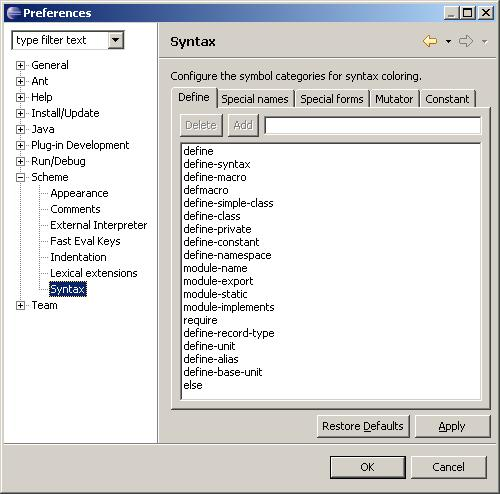
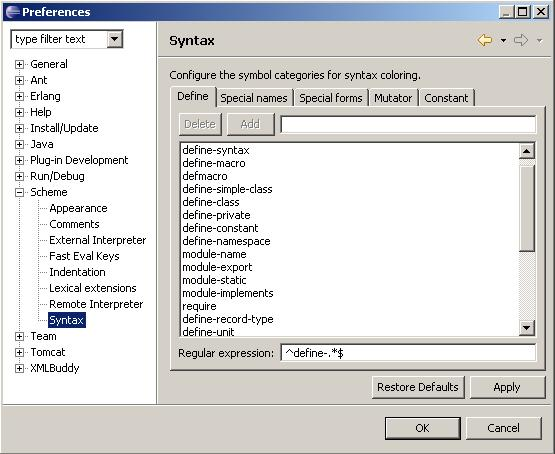
updated for version 1.2.0

Changed region(s): [[0.0, 0.0, 1.0, 1.0]]

diff --git a/html/overview.html b/html/overview.html
@@ -66,48 +66,14 @@
 <h2>Recent Changes</h2>
 
 <ul>
-    <li><b>Version 1.0.0</b>
+    <li><b>Version 1.2.0</b>
     	<ul>
-    		<li> The evaluation can be interrupted if it is supported by the interpreter
-				 (see the documentation for more details)
-		    <li> Added an <i>interpreters</i> extension point, and a menu item to 
-	            select the current interpreter
-		    <li> Added an interpreter: Embedded Kawa. It is the Kawa interpreter
-				 running inside the plug-in context/classpath. It comes with a 
-				 stack trace viewer.
-			<li> Added a <i>Kawa scratchpad</i> view (see the documentation for more
-				 details and the examples subdirectory)
-			<li> Structural editing commands (configurable and highly experimental/unstable)
-			<li> new actions (add-require, expand-namespace expand-typename)
-			<li> <code>define-namespace</code> clauses are processed for content assist
-			<li> Bug fixes.
-    	</ul>
-	<li><b>Version 0.3.0</b>
-		<ul>
-			<li>Added a Scheme perspective, with menus, toolbar actions
-			<li>Added integrated Scheme interpreter support
-			<li>>Added fast eval keys
-			<li>Bug fixes (parenthesis highlighting works even when the first
-		     character of the file is an opening parenthesis,
-			 renaming a file no longer breaks parenthesis highlighting,
-		     pressing TAB on an already indented line no longer marks
-		     the file as modified)
-		</ul>
-	</li>
-	<li>
-		<b>Version 0.2.1</b>
-		<ul>
-			<li>The "Find Definition" action now opens the "Definitions" view
-			<li>Added a "Find Symbol" action that pops up a dialog box for 	
-			  querying a symbol definition
-		</ul>
-	</li>
-	<li>
-		<b>Version 0.2.0</b>
-		<ul>
-			<li>Added a first version of the documentation
-			<li>A new icon with transparent background
-			<li>Bug fix: strings can now contain backslash characters (<code>\</code>)
+		<li>Implemented feature request #1404254 : Reformatting - remove trailing whitespaces</li>
+		<li>Implemented feature request #1404253 : Include definitions in outline</li>
+		<li>Implemented feature request #1307138 : Regular expressions for symbol definitions</li>
+		<li>Implemented feature request #1437953 : Add BRL support</li>
+		<li>Launchers are now private (they won't show anymore in the Run/Run... dialog)</li>
+		<li>Bug fix related to the initialization of the user dictionary used by code assist</li>
 		</ul>
 	</li>
 </ul>
@@ -121,7 +87,7 @@
 
 <hr/>
 <p>
-	Copyright (C) 2004-2005 <b>Dominique Boucher</b>.
+	Copyright (C) 2004-2006 <b>Dominique Boucher</b>.
 </p>
 </body>
 </html>

diff --git a/html/interp.html b/html/interp.html
@@ -113,7 +113,7 @@
 	starting the interpreter:
 	<ul>
 		<li> Check the "Interpreter saves PID" check box in the "Scheme/External Interpreter" preference page.
-		<li> Pass the name of file (where the PID of the Scheme process must be stored) to the Scheme interpreter
+		<li> Pass the name of the file where the PID of the Scheme process must be stored to the Scheme interpreter
 		     using the <code>{pidfile}</code> variable on the command-line arguments. The Scheme process must then
 		     save its PID in the given file. (Most Scheme system allow the evaluation of command-line arguments).
 	</ul>
@@ -137,7 +137,7 @@
 
 <hr/>
 <p>
-	Copyright (C) 2004-2005 <b>Dominique Boucher</b>.
+	Copyright (C) 2004-2006 <b>Dominique Boucher</b>.
 </p>
 </body>
 </html>

diff --git a/html/issues.html b/html/issues.html
@@ -15,6 +15,7 @@
 <ul>
 	<li>Structural editing is highly experimental and has most certainly a
 	  number of bugs.</li>
+	<li>Structural editing does not work well with BRL files</li>
 	<li>Starting with Eclipse 3.1, the console pages behave differently. The cursor
 	    is not moved automatically at the end of the buffer. When a key is pressed, 
 	    however, the cursor is moved at the end of the buffer. This has nothing
@@ -24,7 +25,7 @@
 
 <hr/>
 <p>
-	Copyright (C) 2004-2005 <b>Dominique Boucher</b>.
+	Copyright (C) 2004-2006 <b>Dominique Boucher</b>.
 </p>
 </body>
 </html>

diff --git a/html/prefs.html b/html/prefs.html
@@ -180,11 +180,15 @@
 	coloring the various symbols in a source file. Symbols not appearing in any of these
 	lists are colored using the default color and attributes.
 </p>
+<p>
+	A regular expression can also be used to assign symbols to the various categories.
+	The regular expression must be entered in the text field below the list box.
+</p>
 <center><img src="images/syntaxprefs.JPG"/></center>
 
 <hr/>
 <p>
-	Copyright (C) 2004-2005 <b>Dominique Boucher</b>.
+	Copyright (C) 2004-2006 <b>Dominique Boucher</b>.
 </p>
 </body>
 </html>

diff --git a/html/toc.html b/html/toc.html
@@ -11,10 +11,10 @@
 <h1>SchemeScript User Guide</h1>
 
 SchemeScript is an industrial-strength Scheme editor plug-in for Eclipse. <br/><br/>
-This short guide describes SchemeScript version 1.0.0.
+This short guide describes SchemeScript version 1.2.0.
 <hr/>
 <p>
-	Copyright (C) 2004-2005 <b>Dominique Boucher</b>.
+	Copyright (C) 2004-2006 <b>Dominique Boucher</b>.
 </p>
 </body>
 

diff --git a/html/editing.html b/html/editing.html
@@ -202,7 +202,7 @@ the editor's context menu):
 
 <hr/>
 <p>
-	Copyright (C) 2004-2005 <b>Dominique Boucher</b>.
+	Copyright (C) 2004-2006 <b>Dominique Boucher</b>.
 </p>
 </body>
 </html>

diff --git a/html/contentassist.html b/html/contentassist.html
@@ -74,7 +74,7 @@
 
 <hr/>
 <p>
-	Copyright (C) 2004-2005 <b>Dominique Boucher</b>.
+	Copyright (C) 2004-2006 <b>Dominique Boucher</b>.
 </p>
 </body>
 </html>
